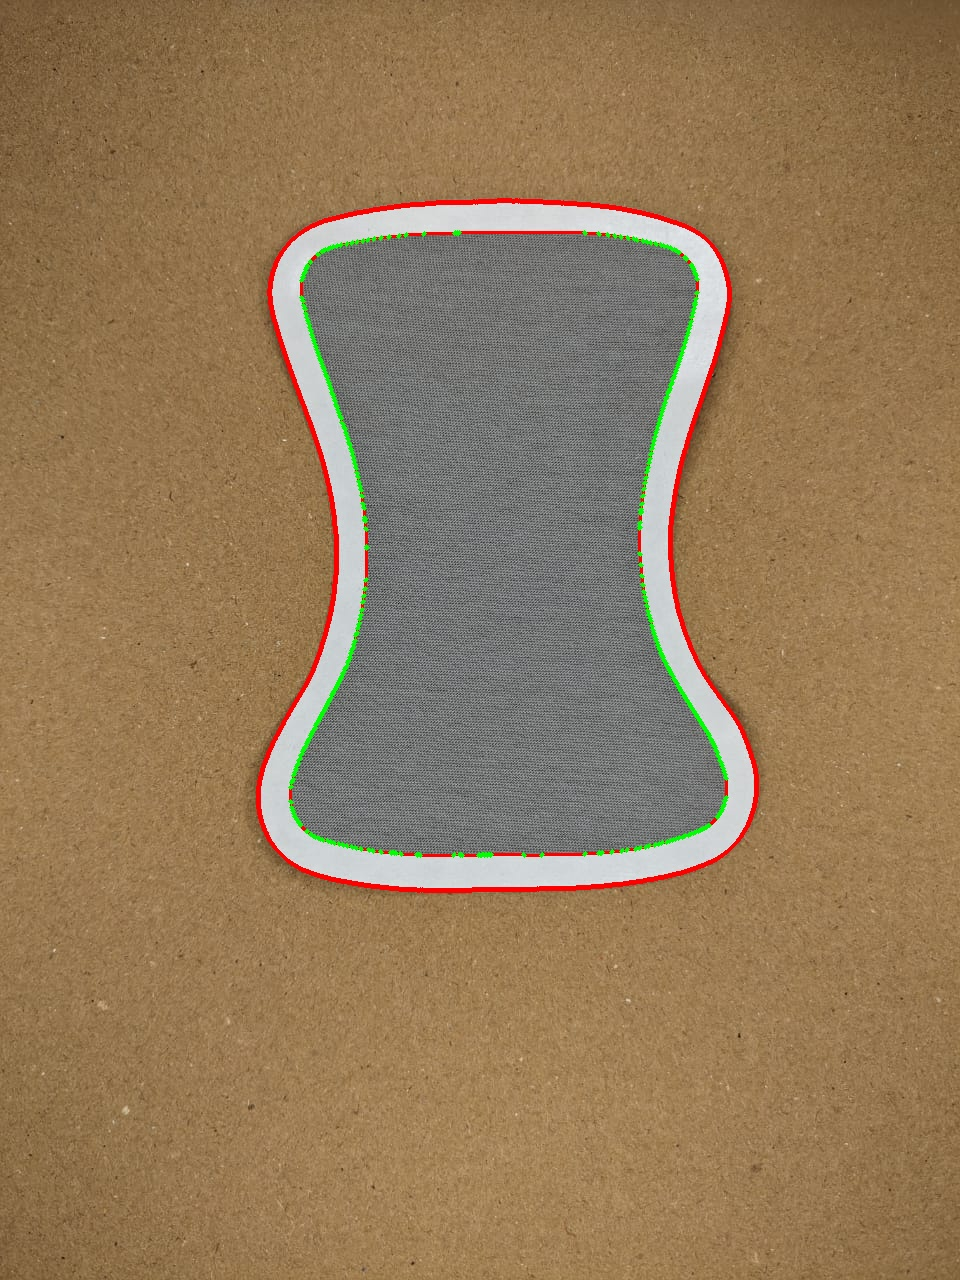
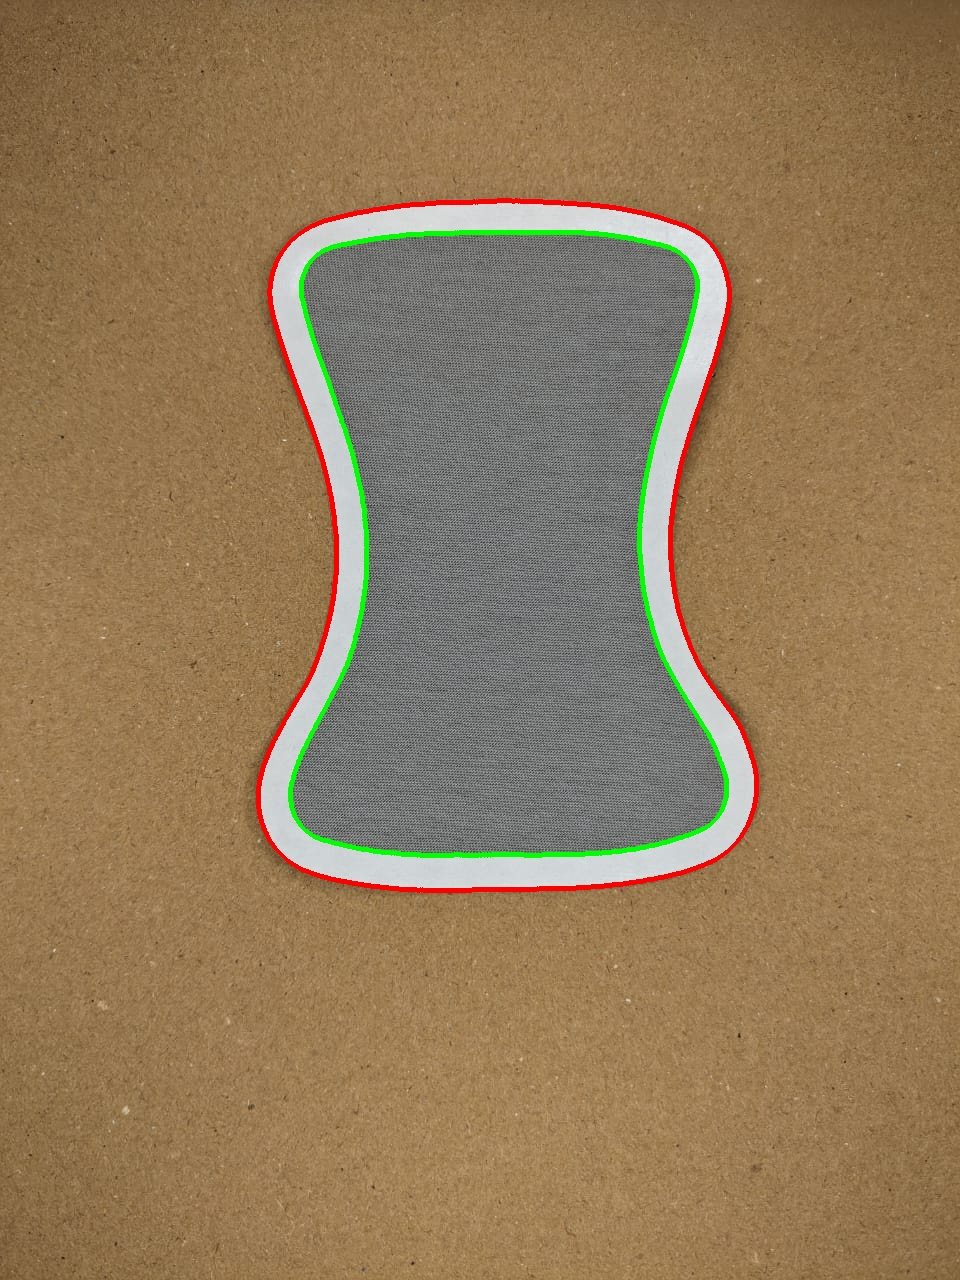
need function

diff --git a/edgeDetect .py b/edgeDetect .py
@@ -58,10 +58,146 @@ while True:
     if second_longest_contour is not None:    
         cv.drawContours(frame_contours, [second_longest_contour], -1, (0, 0, 255), 2)
 
-    if longest_contour is not None and second_longest_contour is not None :    
+    if longest_contour is not None and second_longest_contour is not None:    
 
-        fill_coordinates(longest_contour)
+        insert_index=0
+        last_x, last_y = longest_contour[len(longest_contour) - 1][0]
 
+        for coordinates in longest_contour:
+            next_x,next_y=coordinates[0]
+            if(next_x-last_x < -1 or next_x-last_x > 1) and (next_y - last_y ==0):
+                if next_x > last_x:
+                    new_x = next_x-1
+                    new_y = last_y
+                    while new_x > last_x:
+                        longest_contour = np.insert(longest_contour, insert_index, [[new_x,new_y]], axis=0)
+                        new_x = new_x-1
+                                
+                else:
+                    new_x = next_x+1
+                    new_y = next_y
+                    while new_x < last_x:
+                        longest_contour = np.insert(longest_contour, insert_index, [[new_x,new_y]], axis=0)
+                        new_x = new_x+1 
+                                    
+            #vertical case
+            elif(next_y-last_y < -1 or next_y-last_y > 1) and (next_x - last_x == 0):
+                if next_y > last_y:
+                    new_y = next_y-1
+                    new_x = last_x
+                    while new_y > last_y:
+                        longest_contour = np.insert(longest_contour, insert_index, [[new_x,new_y]], axis=0)
+                        new_y = new_y-1
+                                
+                else:
+                    new_x = next_x
+                    new_y = next_y+1
+                    while new_y < last_y:
+                        longest_contour = np.insert(longest_contour, insert_index, [[new_x,new_y]], axis=0)
+                        new_y = new_y+1
+                                
+            #angled case    
+            elif(next_x-last_x < -1 or next_x-last_x > 1) and (next_y-last_y < -1 or next_y-last_y > 1):
+
+                #print(str(next_x)+","+str(next_y))
+                #print(str(last_x)+","+str(last_y))
+                line_gradient = ( (next_y - last_y)/(next_x-last_x) )
+                line_intercept = ( next_y-(line_gradient*next_x))
+
+                if next_x > last_x:
+                        
+                    new_y = next_y
+                    new_x = next_x-1
+                    while new_x > last_x:
+                        new_y = (line_gradient*new_x)+line_intercept
+                        longest_contour = np.insert(longest_contour, insert_index, [[new_x,new_y]], axis=0)
+                        new_x = new_x-1
+                                
+                else:
+                    new_x = next_x+1
+                    new_y = next_y
+                    while new_x < last_x:
+                        new_y = (line_gradient*new_x)+line_intercept
+                        longest_contour = np.insert(longest_contour, insert_index, [[new_x,new_y]], axis=0)
+                        new_x = new_x+1                            
+            #print(str(next_x)+","+str(next_y))
+            #print(str(last_x)+","+str(last_y))
+                
+            insert_index=insert_index+1    
+            last_y = next_y
+            last_x = next_x
+        for coordinates in longest_contour:
+            x, y = coordinates[0]  # Extract x and y coordinates from the point
+            cv.circle(frame_contours, (x, y), 2, (0, 0, 255), -1)
+
+#second contour
+
+        insert_index=0
+        last_x, last_y = second_longest_contour[len(second_longest_contour) - 1][0]
+
+        for coordinates in second_longest_contour:
+            next_x,next_y=coordinates[0]
+            if(next_x-last_x < -1 or next_x-last_x > 1) and (next_y - last_y ==0):
+                if next_x > last_x:
+                    new_x = next_x-1
+                    new_y = last_y
+                    while new_x > last_x:
+                        second_longest_contour = np.insert(second_longest_contour, insert_index, [[new_x,new_y]], axis=0)
+                        new_x = new_x-1
+                                
+                else:
+                    new_x = next_x+1
+                    new_y = next_y
+                    while new_x < last_x:
+                        second_longest_contour = np.insert(second_longest_contour, insert_index, [[new_x,new_y]], axis=0)
+                        new_x = new_x+1 
+                                    
+            #vertical case
+            elif(next_y-last_y < -1 or next_y-last_y > 1) and (next_x - last_x == 0):
+                if next_y > last_y:
+                    new_y = next_y-1
+                    new_x = last_x
+                    while new_y > last_y:
+                        second_longest_contour = np.insert(second_longest_contour, insert_index, [[new_x,new_y]], axis=0)
+                        new_y = new_y-1
+                                
+                else:
+                    new_x = next_x
+                    new_y = next_y+1
+                    while new_y < last_y:
+                        second_longest_contour = np.insert(second_longest_contour, insert_index, [[new_x,new_y]], axis=0)
+                        new_y = new_y+1
+                                
+            #angled case    
+            elif(next_x-last_x < -1 or next_x-last_x > 1) and (next_y-last_y < -1 or next_y-last_y > 1):
+
+                #print(str(next_x)+","+str(next_y))
+                #print(str(last_x)+","+str(last_y))
+                line_gradient = ( (next_y - last_y)/(next_x-last_x) )
+                line_intercept = ( next_y-(line_gradient*next_x))
+
+                if next_x > last_x:
+                        
+                    new_y = next_y
+                    new_x = next_x-1
+                    while new_x > last_x:
+                        new_y = (line_gradient*new_x)+line_intercept
+                        second_longest_contour = np.insert(second_longest_contour, insert_index, [[new_x,new_y]], axis=0)
+                        new_x = new_x-1
+                                
+                else:
+                    new_x = next_x+1
+                    new_y = next_y
+                    while new_x < last_x:
+                        new_y = (line_gradient*new_x)+line_intercept
+                        second_longest_contour = np.insert(second_longest_contour, insert_index, [[new_x,new_y]], axis=0)
+                        new_x = new_x+1                            
+            #print(str(next_x)+","+str(next_y))
+            #print(str(last_x)+","+str(last_y))
+                
+            insert_index=insert_index+1    
+            last_y = next_y
+            last_x = next_x
         for coordinates in second_longest_contour:
             x, y = coordinates[0]  # Extract x and y coordinates from the point
             cv.circle(frame_contours, (x, y), 2, (0, 255, 0), -1)
@@ -79,75 +215,3 @@ while True:
 
 # Release resources
 cv.destroyAllWindows()
-
-def fill_coordinates(contour_array):
-    insert_index=0
-    last_x, last_y = contour_array[len(contour_array) - 1][0]
-
-    for coordinates in contour_array:
-        next_x,next_y=coordinates[0]
-        if(next_x-last_x < -1 or next_x-last_x > 1) and (next_y - last_y ==0):
-            if next_x > last_x:
-                new_x = next_x-1
-                new_y = last_y
-                while new_x > last_x:
-                    contour_array = np.insert(contour_array, insert_index, [[new_x,new_y]], axis=0)
-                    new_x = new_x-1
-                            
-            else:
-                new_x = next_x+1
-                new_y = next_y
-                while new_x < last_x:
-                    contour_array = np.insert(contour_array, insert_index, [[new_x,new_y]], axis=0)
-                    new_x = new_x+1 
-                                
-        #vertical case
-        elif(next_y-last_y < -1 or next_y-last_y > 1) and (next_x - last_x == 0):
-            if next_y > last_y:
-                new_y = next_y-1
-                new_x = last_x
-                while new_y > last_y:
-                    contour_array = np.insert(contour_array, insert_index, [[new_x,new_y]], axis=0)
-                    new_y = new_y-1
-                            
-            else:
-                new_x = next_x
-                new_y = next_y+1
-                while new_y < last_y:
-                    contour_array = np.insert(contour_array, insert_index, [[new_x,new_y]], axis=0)
-                    new_y = new_y+1
-                            
-        #angled case    
-        elif(next_x-last_x < -1 or next_x-last_x > 1) and (next_y-last_y < -1 or next_y-last_y > 1):
-
-            #print(str(next_x)+","+str(next_y))
-            #print(str(last_x)+","+str(last_y))
-            line_gradient = ( (next_y - last_y)/(next_x-last_x) )
-            line_intercept = ( next_y-(line_gradient*next_x))
-
-            if next_x > last_x:
-                    
-                new_y = next_y
-                new_x = next_x-1
-                while new_x > last_x:
-                    new_y = (line_gradient*new_x)+line_intercept
-                    contour_array = np.insert(contour_array, insert_index, [[new_x,new_y]], axis=0)
-                    new_x = new_x-1
-                            
-            else:
-                new_x = next_x+1
-                new_y = next_y
-                while new_x < last_x:
-                    new_y = (line_gradient*new_x)+line_intercept
-                    contour_array = np.insert(contour_array, insert_index, [[new_x,new_y]], axis=0)
-                    new_x = new_x+1                            
-        #print(str(next_x)+","+str(next_y))
-        #print(str(last_x)+","+str(last_y))
-            
-        insert_index=insert_index+1    
-        last_y = next_y
-        last_x = next_x
-    for coordinates in contour_array:
-        x, y = coordinates[0]  # Extract x and y coordinates from the point
-        cv.circle(frame_contours, (x, y), 2, (0, 0, 255), -1)
-    return
